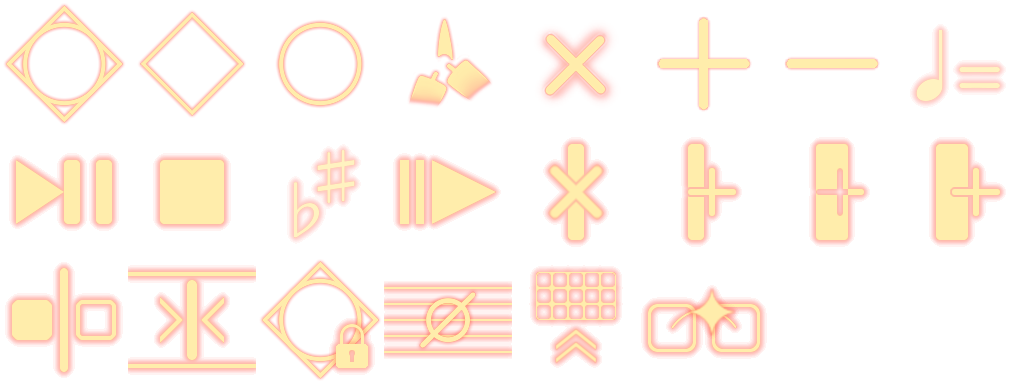
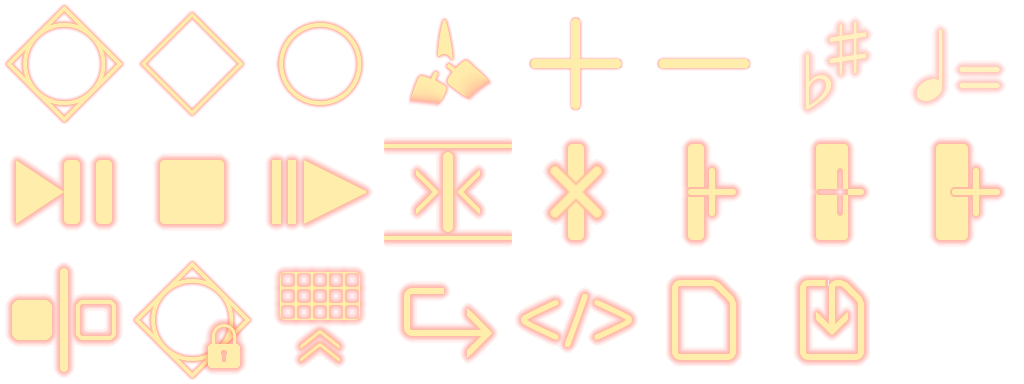
-

diff --git a/seq.html b/seq.html
@@ -84,16 +84,17 @@
 	</div>
 	<div class="clear_fix">
 		<div class="uiPanel">
-			         <button class="grid bg" style="--bp:-300% -100%;transform:rotateZ(180deg);" onclick="tstep(-1);">back
+			         <button class="grid bg" style="--bp:-200% -100%;transform:scaleX(-1);" onclick="tstep(-1);">back
 			</button><button onclick="ttoggle();" class="grid bg" style="--bp:0 -100%;">start/pause</button><button onclick="tstop();" class="grid bg" style="--bp:-100% -100%;">stop
-			</button><button class="grid bg" style="--bp:-300% -100%;" onclick="tstep(1);">forward</button><br>
+			</button><button class="grid bg" style="--bp:-200% -100%;" onclick="tstep(1);">forward</button><br>
 			         <button class="grid bg" style="--bp:-400% -100%;">delete
 			</button><button class="grid bg" style="--bp:-500% -100%;">add
 			</button><button class="grid bg" style="--bp:-600% -100%;">add in
 			</button><button class="grid bg" style="--bp:-700% -100%;">add out</button><br>
-			         <button onclick="" class="grid bg" style="--bp:-00% -00%;">undo
-			</button><button onclick="" class="grid bg" style="--bp:-00% -00%;">redo
-			</button><button onclick="userscr[0]=true;dispScr.scrollLeft=dispCur.getBoundingClientRect().left+dispScr.scrollLeft+window.scrollX-dispScr.clientWidth*.5;" class="grid bg" style="--bp:-100% -200%;">scroll to cursor</button>
+			         <button onclick="" class="grid bg" style="--bp:-300% -200%;transform:scaleX(-1);">undo
+			</button><button onclick="" class="grid bg" style="--bp:-300% -200%;">redo
+			</button><button onclick="userscr[0]=true;dispScr.scrollLeft=dispCur.getBoundingClientRect().left+dispScr.scrollLeft+window.scrollX-dispScr.clientWidth*.5;" class="grid bg" style="--bp:-300% -100%;">scroll to cursor
+			</button><button onclick="" class="grid bg" style="--bp:-400% -200%;">raw</button>
 		</div>
 		<div class="kbPanel">
 			<div id="kb">
@@ -103,16 +104,16 @@
 			</div>
 		</div>
 		<div class="uiPanel">
-			        <label for="kblock" class="grid bg" style="--bp:-200% -200%;">lock keyboard
-			</label><label for="pract" class="grid bg" style="--bp:-400% -200%;">practice
-			</label><button onclick="" class="grid bg" style="--bp:-00% -00%;">save
-			</button><button onclick="" class="grid bg" style="--bp:-00% -00%;">load</button>
+			        <label for="kblock" class="grid bg" style="--bp:-100% -200%;">lock keyboard
+			</label><label for="pract" class="grid bg" style="--bp:-200% -200%;">practice
+			</label><button onclick="" class="grid bg" style="--bp:-600% -200%;">save
+			</button><button onclick="" class="grid bg" style="--bp:-500% -200%;">load</button>
 		</div>
 		<div class="uiPanel">
-			         <button onclick="main.bpm-=6;Tone.Transport.bpm.value-=6;bpm_.value=main.bpm;" class="grid bg" style="--bp:-600% 0;">slow
-			</button><label><input id="bpm_" class="grid bg showtxt" onchange="bpmset();" style="--bp:-700% 0;"></input></label><button onclick="main.bpm+=6;Tone.Transport.bpm.value+=6;bpm_.value=main.bpm;" class="grid bg" style="--bp:-500% 0;">fast</button><br>
-			         <button onclick="sc_.value=--main.sc;" class="grid bg" style="--bp:-600% 0;">down
-			</button><label><input id="sc_" class="grid bg showtxt" onchange="scset();" style="--bp:-200% -100%;"></input></label><button onclick="sc_.value=++main.sc;" class="grid bg" style="--bp:-500% 0;">up</button>
+			         <button onclick="main.bpm-=6;Tone.Transport.bpm.value-=6;bpm_.value=main.bpm;" class="grid bg" style="--bp:-500% 0;">slow
+			</button><label><input id="bpm_" class="grid bg showtxt" onchange="bpmset();" style="--bp:-700% 0;"></input></label><button onclick="main.bpm+=6;Tone.Transport.bpm.value+=6;bpm_.value=main.bpm;" class="grid bg" style="--bp:-400% 0;">fast</button><br>
+			         <button onclick="sc_.value=--main.sc;" class="grid bg" style="--bp:-500% 0;">down
+			</button><label><input id="sc_" class="grid bg showtxt" onchange="scset();" style="--bp:-600% 0;"></input></label><button onclick="sc_.value=++main.sc;" class="grid bg" style="--bp:-400% 0;">up</button>
 		</div>
 		<div class="uiPanel">
 			<label for="uiflip" class="grid bg" style="--bp:0 -200%;">flip ui
@@ -142,7 +143,7 @@
 		//window.onbeforeunload=e=>{e.preventDefault();return'';};
 
 		var seq,sc=Number(sc_.value),main,rendered,p=0,curpos=0,userscr=[false,false];
-		const info='Powerd by Tone.js\nAudio: GarageBand\n\nauthor:@SkyEringi\nbuild:2101252\nMIT License',
+		const info='Powerd by Tone.js\nAudio: GarageBand\n\nauthor:@SkyEringi\nbuild:2101253\nMIT License',
 		llog=(x,c)=>{if(c)log.textContent='';log.textContent+=`${c?'':'\n'}${x}`;},
 		//url_o=(x)=>JSON.stringify(x).replace(/\"/g,"'").replace(/,/g,'.').replace(/\[/g,'(').replace(/\]/g,')'), url_i=(x)=>JSON.parse(x.replace(/'/g,'"').replace(/\./g,',').replace(/\(/g,'[').replace(/\)/g,']')),
 		mbxli=()=>{var s={};for(var i=3;i<=6;i++){s[`a${i}`]=`a${i}.mp3`;s[`d#${i+1}`]=`ds${i+1}.mp3`;}return s;},
